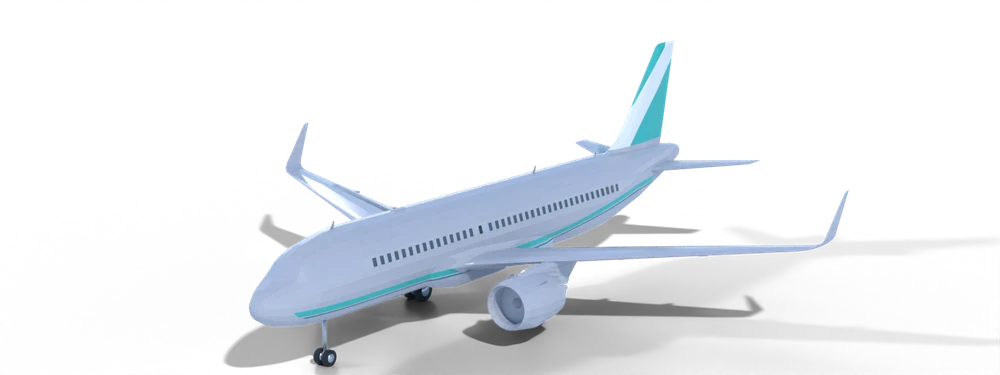
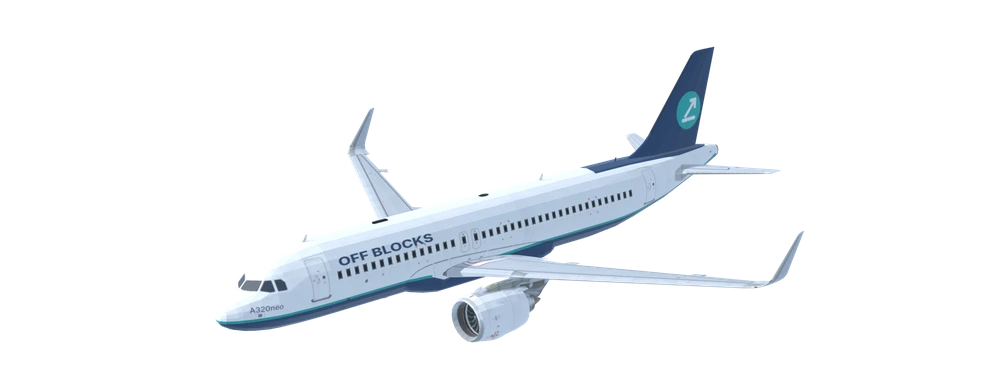
Off Blocks livery renders for the A320 family (A318/A319/A320/A321, neo and XLR)
Claude-Session: https://claude.ai/code/session_01XrFePU9h1hCzy7p7tSHsYD

Changed region(s): [[0.217, 0.1173, 0.837, 1.0], [0.837, 0.528, 0.868, 0.5867]]

diff --git a/sw.js b/sw.js
@@ -1,5 +1,5 @@
 /* Off Blocks service worker. Bump VER to push an update to installed copies. */
-const VER='ob-v35',CORE=["./", "index.html", "manifest.webmanifest", "network.json", "icons/icon-192.png", "icons/icon-512.png", "mapimg/detail.json", "mapimg/sat.webp", "mapimg/terrain.webp", "img/A19N.webp", "img/A19N_side.webp", "img/A20N.webp", "img/A20N_side.webp", "img/A21N.webp", "img/A21N_side.webp", "img/A21X.webp", "img/A21X_side.webp", "img/A306_side.webp", "img/A310.webp", "img/A310_side.webp", "img/A318.webp", "img/A318_side.webp", "img/A319.webp", "img/A319_side.webp", "img/A320.webp", "img/A320_side.webp", "img/A321.webp", "img/A321_side.webp", "img/A332_side.webp", "img/A333_side.webp", "img/A338.webp", "img/A338_side.webp", "img/A339.webp", "img/A339_side.webp", "img/A343_side.webp", "img/A346_side.webp", "img/A359_side.webp", "img/A35K.webp", "img/A35K_side.webp", "img/A388_side.webp", "img/AN24.webp", "img/AR21.webp", "img/AT42_side.webp", "img/AT76_side.webp", "img/B190.webp", "img/B37M.webp", "img/B37M_side.webp", "img/B38M.webp", "img/B38M_side.webp", "img/B39M.webp", "img/B39M_side.webp", "img/B3XM.webp", "img/B3XM_side.webp", "img/B712.webp", "img/B712_side.webp", "img/B722_side.webp", "img/B732.webp", "img/B732_side.webp", "img/B733_side.webp", "img/B734_side.webp", "img/B735.webp", "img/B735_side.webp", "img/B736_side.webp", "img/B737_side.webp", "img/B738_side.webp", "img/B739_side.webp", "img/B744_side.webp", "img/B748_side.webp", "img/B752.webp", "img/B752_side.webp", "img/B753.webp", "img/B753_side.webp", "img/B762.webp", "img/B762_side.webp", "img/B763_side.webp", "img/B764.webp", "img/B764_side.webp", "img/B772_side.webp", "img/B773.webp", "img/B773_side.webp", "img/B779.webp", "img/B779_side.webp", "img/B77L_side.webp", "img/B77W_side.webp", "img/B788_side.webp", "img/B789_side.webp", "img/B78X_side.webp", "img/BCS1_side.webp", "img/BCS3_side.webp", "img/C208.webp", "img/C208_side.webp", "img/C919.webp", "img/C919_side.webp", "img/CRJ2.webp", "img/CRJ2_side.webp", "img/CRJ7_side.webp", "img/CRJ9.webp", "img/CRJ9_side.webp", "img/CRJX_side.webp", "img/D328.webp", "img/DH8A.webp", "img/DH8A_side.webp", "img/DH8C_side.webp", "img/DH8D_side.webp", "img/DHC6_side.webp", "img/E120.webp", "img/E120_side.webp", "img/E135.webp", "img/E135_side.webp", "img/E140.webp", "img/E140_side.webp", "img/E145.webp", "img/E145_side.webp", "img/E170_side.webp", "img/E175_side.webp", "img/E190_side.webp", "img/E195.webp", "img/E195_side.webp", "img/E290_side.webp", "img/E295.webp", "img/E295_side.webp", "img/E75X.webp", "img/E75X_side.webp", "img/F100.webp", "img/F100_side.webp", "img/F50.webp", "img/F50_side.webp", "img/F70.webp", "img/F70_side.webp", "img/J41.webp", "img/L410.webp", "img/L410_side.webp", "img/MA60.webp", "img/MD83.webp", "img/MD83_side.webp", "img/MD90.webp", "img/MD90_side.webp", "img/RJ1H.webp", "img/RJ1H_side.webp", "img/RJ85.webp", "img/RJ85_side.webp", "img/SB20.webp", "img/SF34_side.webp", "img/T154.webp", "img/T154_side.webp"];
+const VER='ob-v36',CORE=["./", "index.html", "manifest.webmanifest", "network.json", "icons/icon-192.png", "icons/icon-512.png", "mapimg/detail.json", "mapimg/sat.webp", "mapimg/terrain.webp", "img/A19N.webp", "img/A19N_side.webp", "img/A20N.webp", "img/A20N_side.webp", "img/A21N.webp", "img/A21N_side.webp", "img/A21X.webp", "img/A21X_side.webp", "img/A306_side.webp", "img/A310.webp", "img/A310_side.webp", "img/A318.webp", "img/A318_side.webp", "img/A319.webp", "img/A319_side.webp", "img/A320.webp", "img/A320_side.webp", "img/A321.webp", "img/A321_side.webp", "img/A332_side.webp", "img/A333_side.webp", "img/A338.webp", "img/A338_side.webp", "img/A339.webp", "img/A339_side.webp", "img/A343_side.webp", "img/A346_side.webp", "img/A359_side.webp", "img/A35K.webp", "img/A35K_side.webp", "img/A388_side.webp", "img/AN24.webp", "img/AR21.webp", "img/AT42_side.webp", "img/AT76_side.webp", "img/B190.webp", "img/B37M.webp", "img/B37M_side.webp", "img/B38M.webp", "img/B38M_side.webp", "img/B39M.webp", "img/B39M_side.webp", "img/B3XM.webp", "img/B3XM_side.webp", "img/B712.webp", "img/B712_side.webp", "img/B722_side.webp", "img/B732.webp", "img/B732_side.webp", "img/B733_side.webp", "img/B734_side.webp", "img/B735.webp", "img/B735_side.webp", "img/B736_side.webp", "img/B737_side.webp", "img/B738_side.webp", "img/B739_side.webp", "img/B744_side.webp", "img/B748_side.webp", "img/B752.webp", "img/B752_side.webp", "img/B753.webp", "img/B753_side.webp", "img/B762.webp", "img/B762_side.webp", "img/B763_side.webp", "img/B764.webp", "img/B764_side.webp", "img/B772_side.webp", "img/B773.webp", "img/B773_side.webp", "img/B779.webp", "img/B779_side.webp", "img/B77L_side.webp", "img/B77W_side.webp", "img/B788_side.webp", "img/B789_side.webp", "img/B78X_side.webp", "img/BCS1_side.webp", "img/BCS3_side.webp", "img/C208.webp", "img/C208_side.webp", "img/C919.webp", "img/C919_side.webp", "img/CRJ2.webp", "img/CRJ2_side.webp", "img/CRJ7_side.webp", "img/CRJ9.webp", "img/CRJ9_side.webp", "img/CRJX_side.webp", "img/D328.webp", "img/DH8A.webp", "img/DH8A_side.webp", "img/DH8C_side.webp", "img/DH8D_side.webp", "img/DHC6_side.webp", "img/E120.webp", "img/E120_side.webp", "img/E135.webp", "img/E135_side.webp", "img/E140.webp", "img/E140_side.webp", "img/E145.webp", "img/E145_side.webp", "img/E170_side.webp", "img/E175_side.webp", "img/E190_side.webp", "img/E195.webp", "img/E195_side.webp", "img/E290_side.webp", "img/E295.webp", "img/E295_side.webp", "img/E75X.webp", "img/E75X_side.webp", "img/F100.webp", "img/F100_side.webp", "img/F50.webp", "img/F50_side.webp", "img/F70.webp", "img/F70_side.webp", "img/J41.webp", "img/L410.webp", "img/L410_side.webp", "img/MA60.webp", "img/MD83.webp", "img/MD83_side.webp", "img/MD90.webp", "img/MD90_side.webp", "img/RJ1H.webp", "img/RJ1H_side.webp", "img/RJ85.webp", "img/RJ85_side.webp", "img/SB20.webp", "img/SF34_side.webp", "img/T154.webp", "img/T154_side.webp"];
 self.addEventListener('install',e=>{e.waitUntil(caches.open(VER).then(c=>Promise.all(CORE.map(u=>c.add(u).catch(()=>0)))).then(()=>self.skipWaiting()))});
 self.addEventListener('activate',e=>{e.waitUntil(caches.keys().then(k=>Promise.all(k.filter(x=>x!==VER).map(x=>caches.delete(x)))).then(()=>self.clients.claim()))});
 self.addEventListener('fetch',e=>{const r=e.request,u=new URL(r.url);if(r.method!=='GET'||u.origin!==location.origin)return;

diff --git a/index.html b/index.html
@@ -180,7 +180,7 @@ const lvBase=src=>new Promise(res=>{if(LVI.base[src])return res(LVI.base[src]);c
 const PHOTOS_OFF={B39M:{src:'img/B39M_photo.webp',by:'Clemens Vasters',lic:'CC BY 2.0',lu:'https://creativecommons.org/licenses/by/2.0/',url:'https://commons.wikimedia.org/wiki/File:N7379E_-_Boeing_737_MAX_9.jpg',n:'Boeing 737 MAX 9'}};
 const PHOTOS={};
 /* types with a finished Off Blocks livery render: shown as-is, no repaint */
-const LVNAT={B38M:1,B39M:1};
+const LVNAT={B38M:1,B39M:1,A318:1,A319:1,A320:1,A321:1,A19N:1,A20N:1,A21N:1,A21X:1};
 const lvSrc=(c,v,l)=>LVI.cache[lvKey(c,v,l)]||'img/'+c+(v==='s'?'_side':'')+'.webp';
 /* natural white: the renders come out blue-grey, so lift and neutralise every light, low-saturation pixel (windows, gear and dark detail are left alone) */
 function lvRefL(d,A){const a=[];for(let i=0;i<A.length;i+=7){if(!A[i])continue;const j=i*4,r=d[j],g=d[j+1],b=d[j+2],mx=Math.max(r,g,b),lu=.3*r+.59*g+.11*b;if(lu>110&&(mx-Math.min(r,g,b))/(mx||1)<.36)a.push(lu)}if(!a.length)return 190;a.sort((p,q)=>p-q);return a[a.length>>1]}
